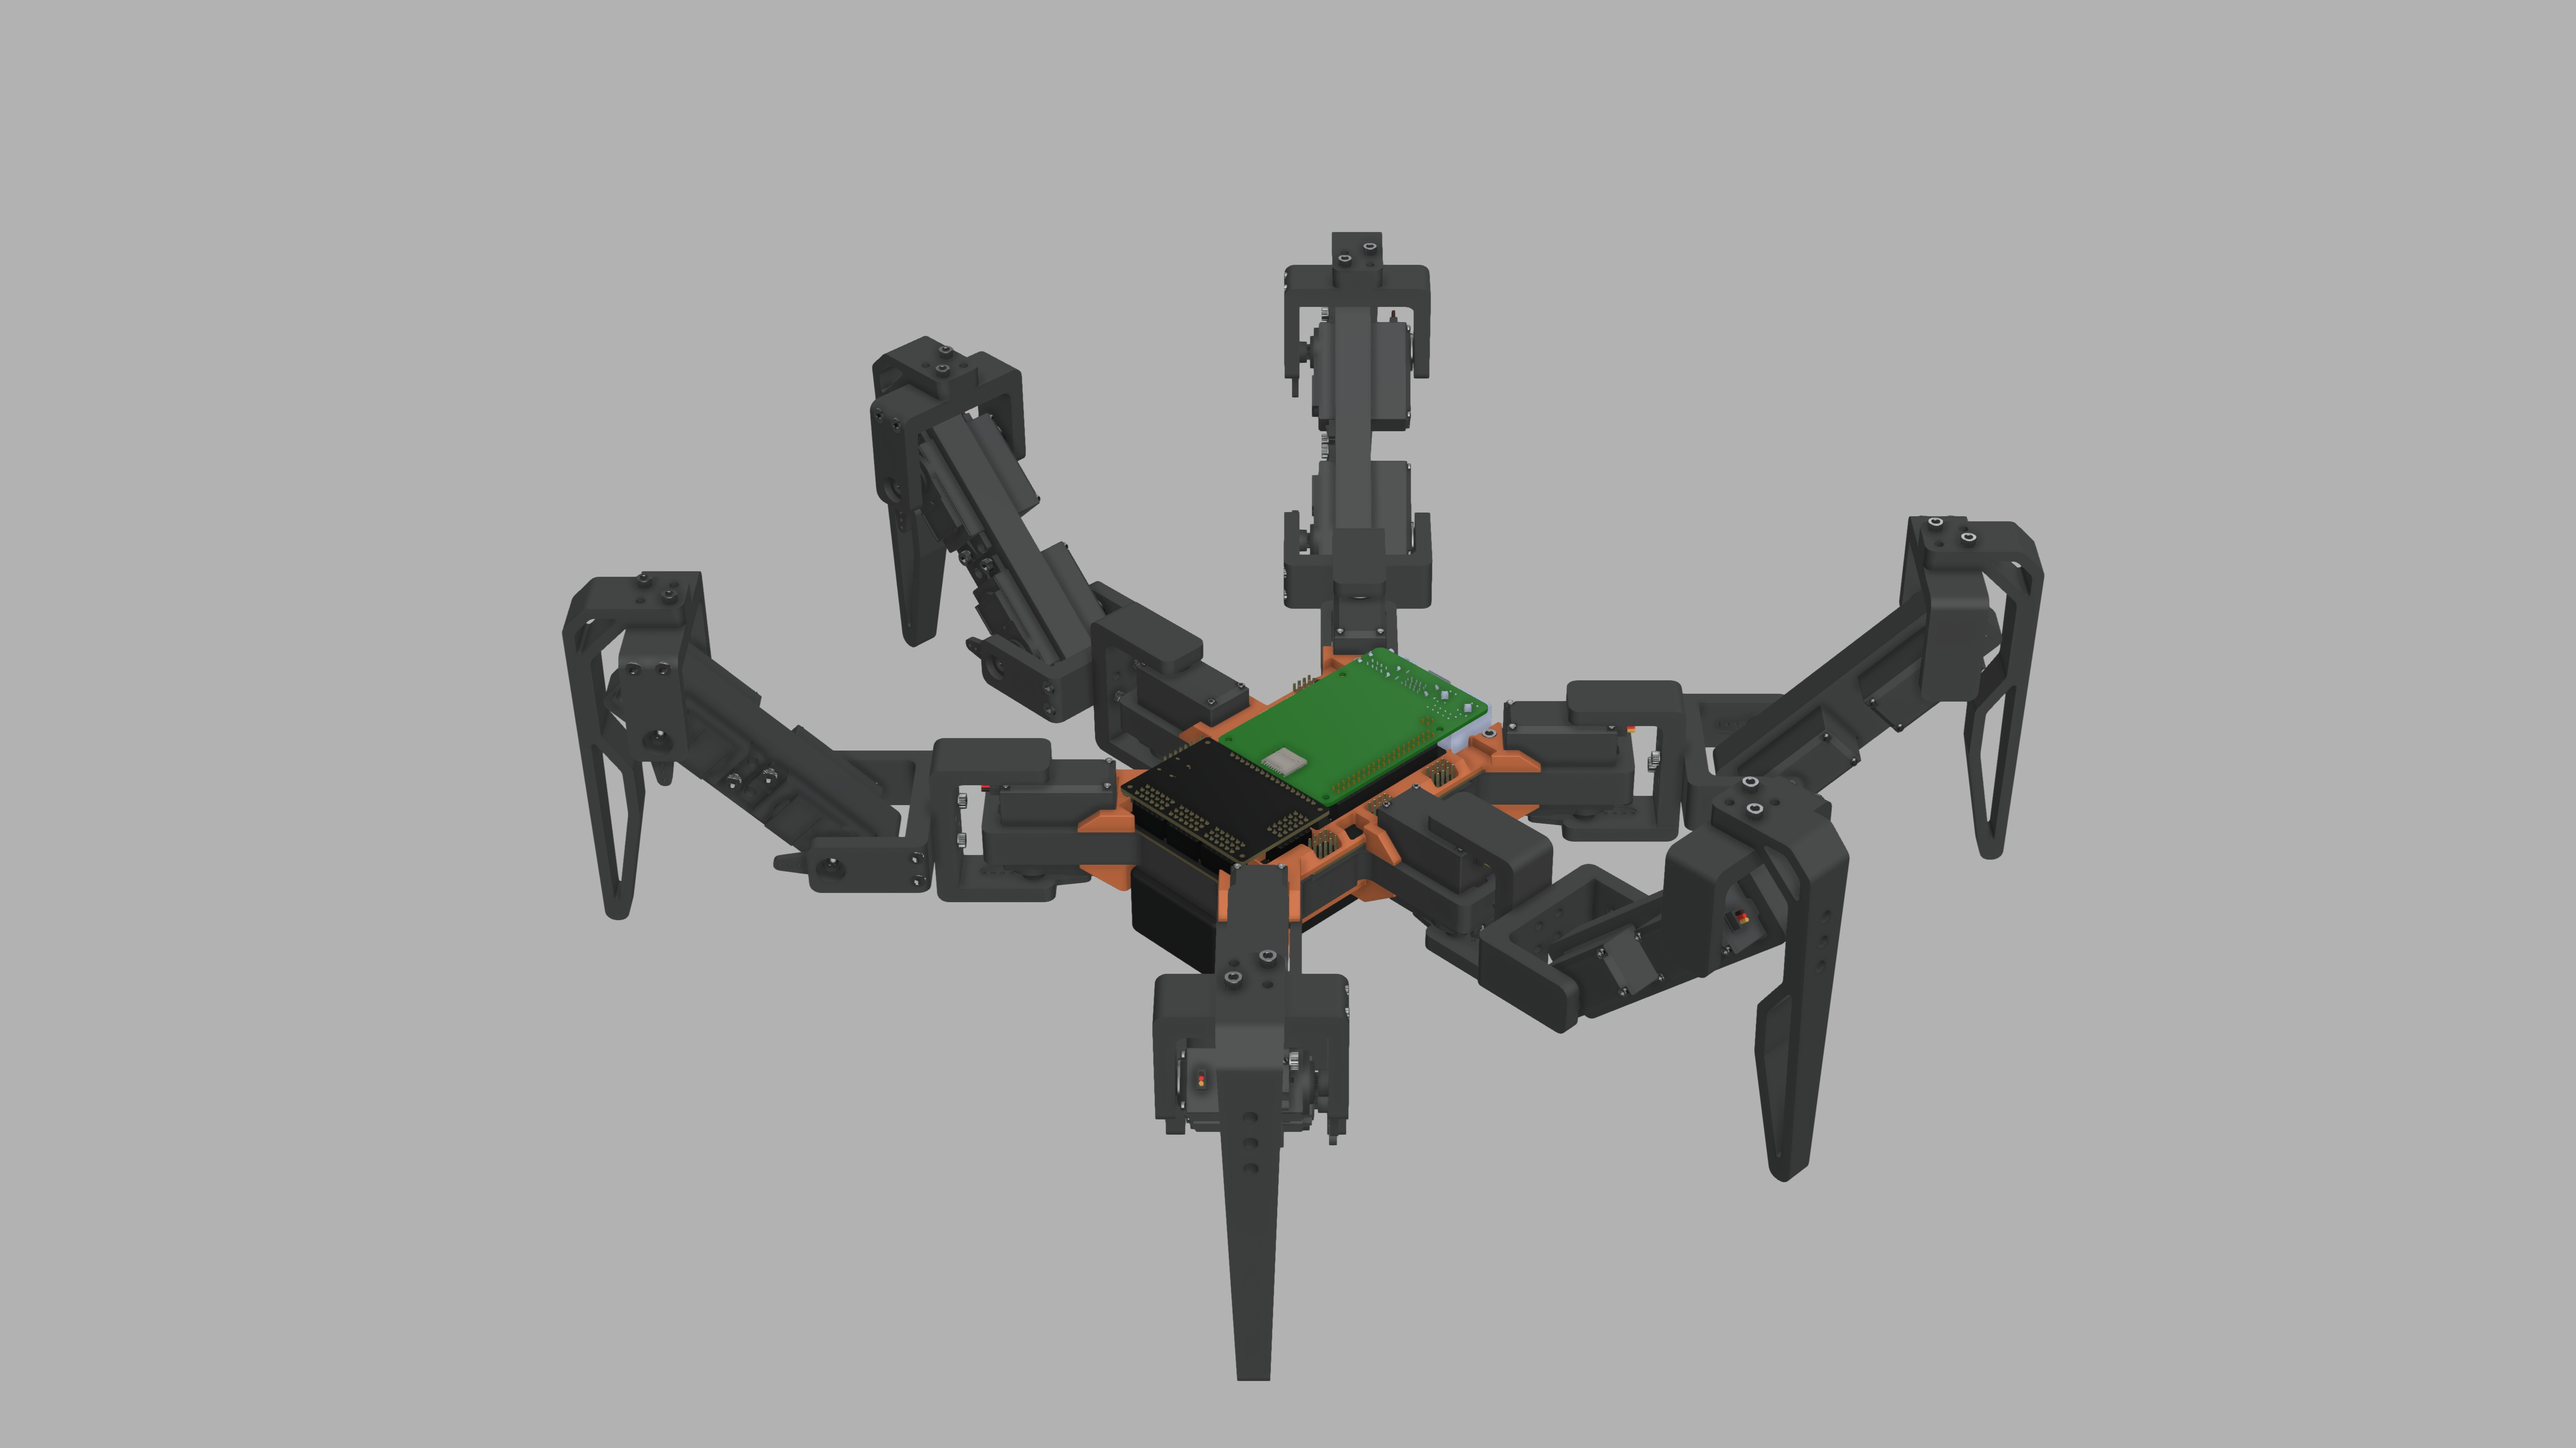
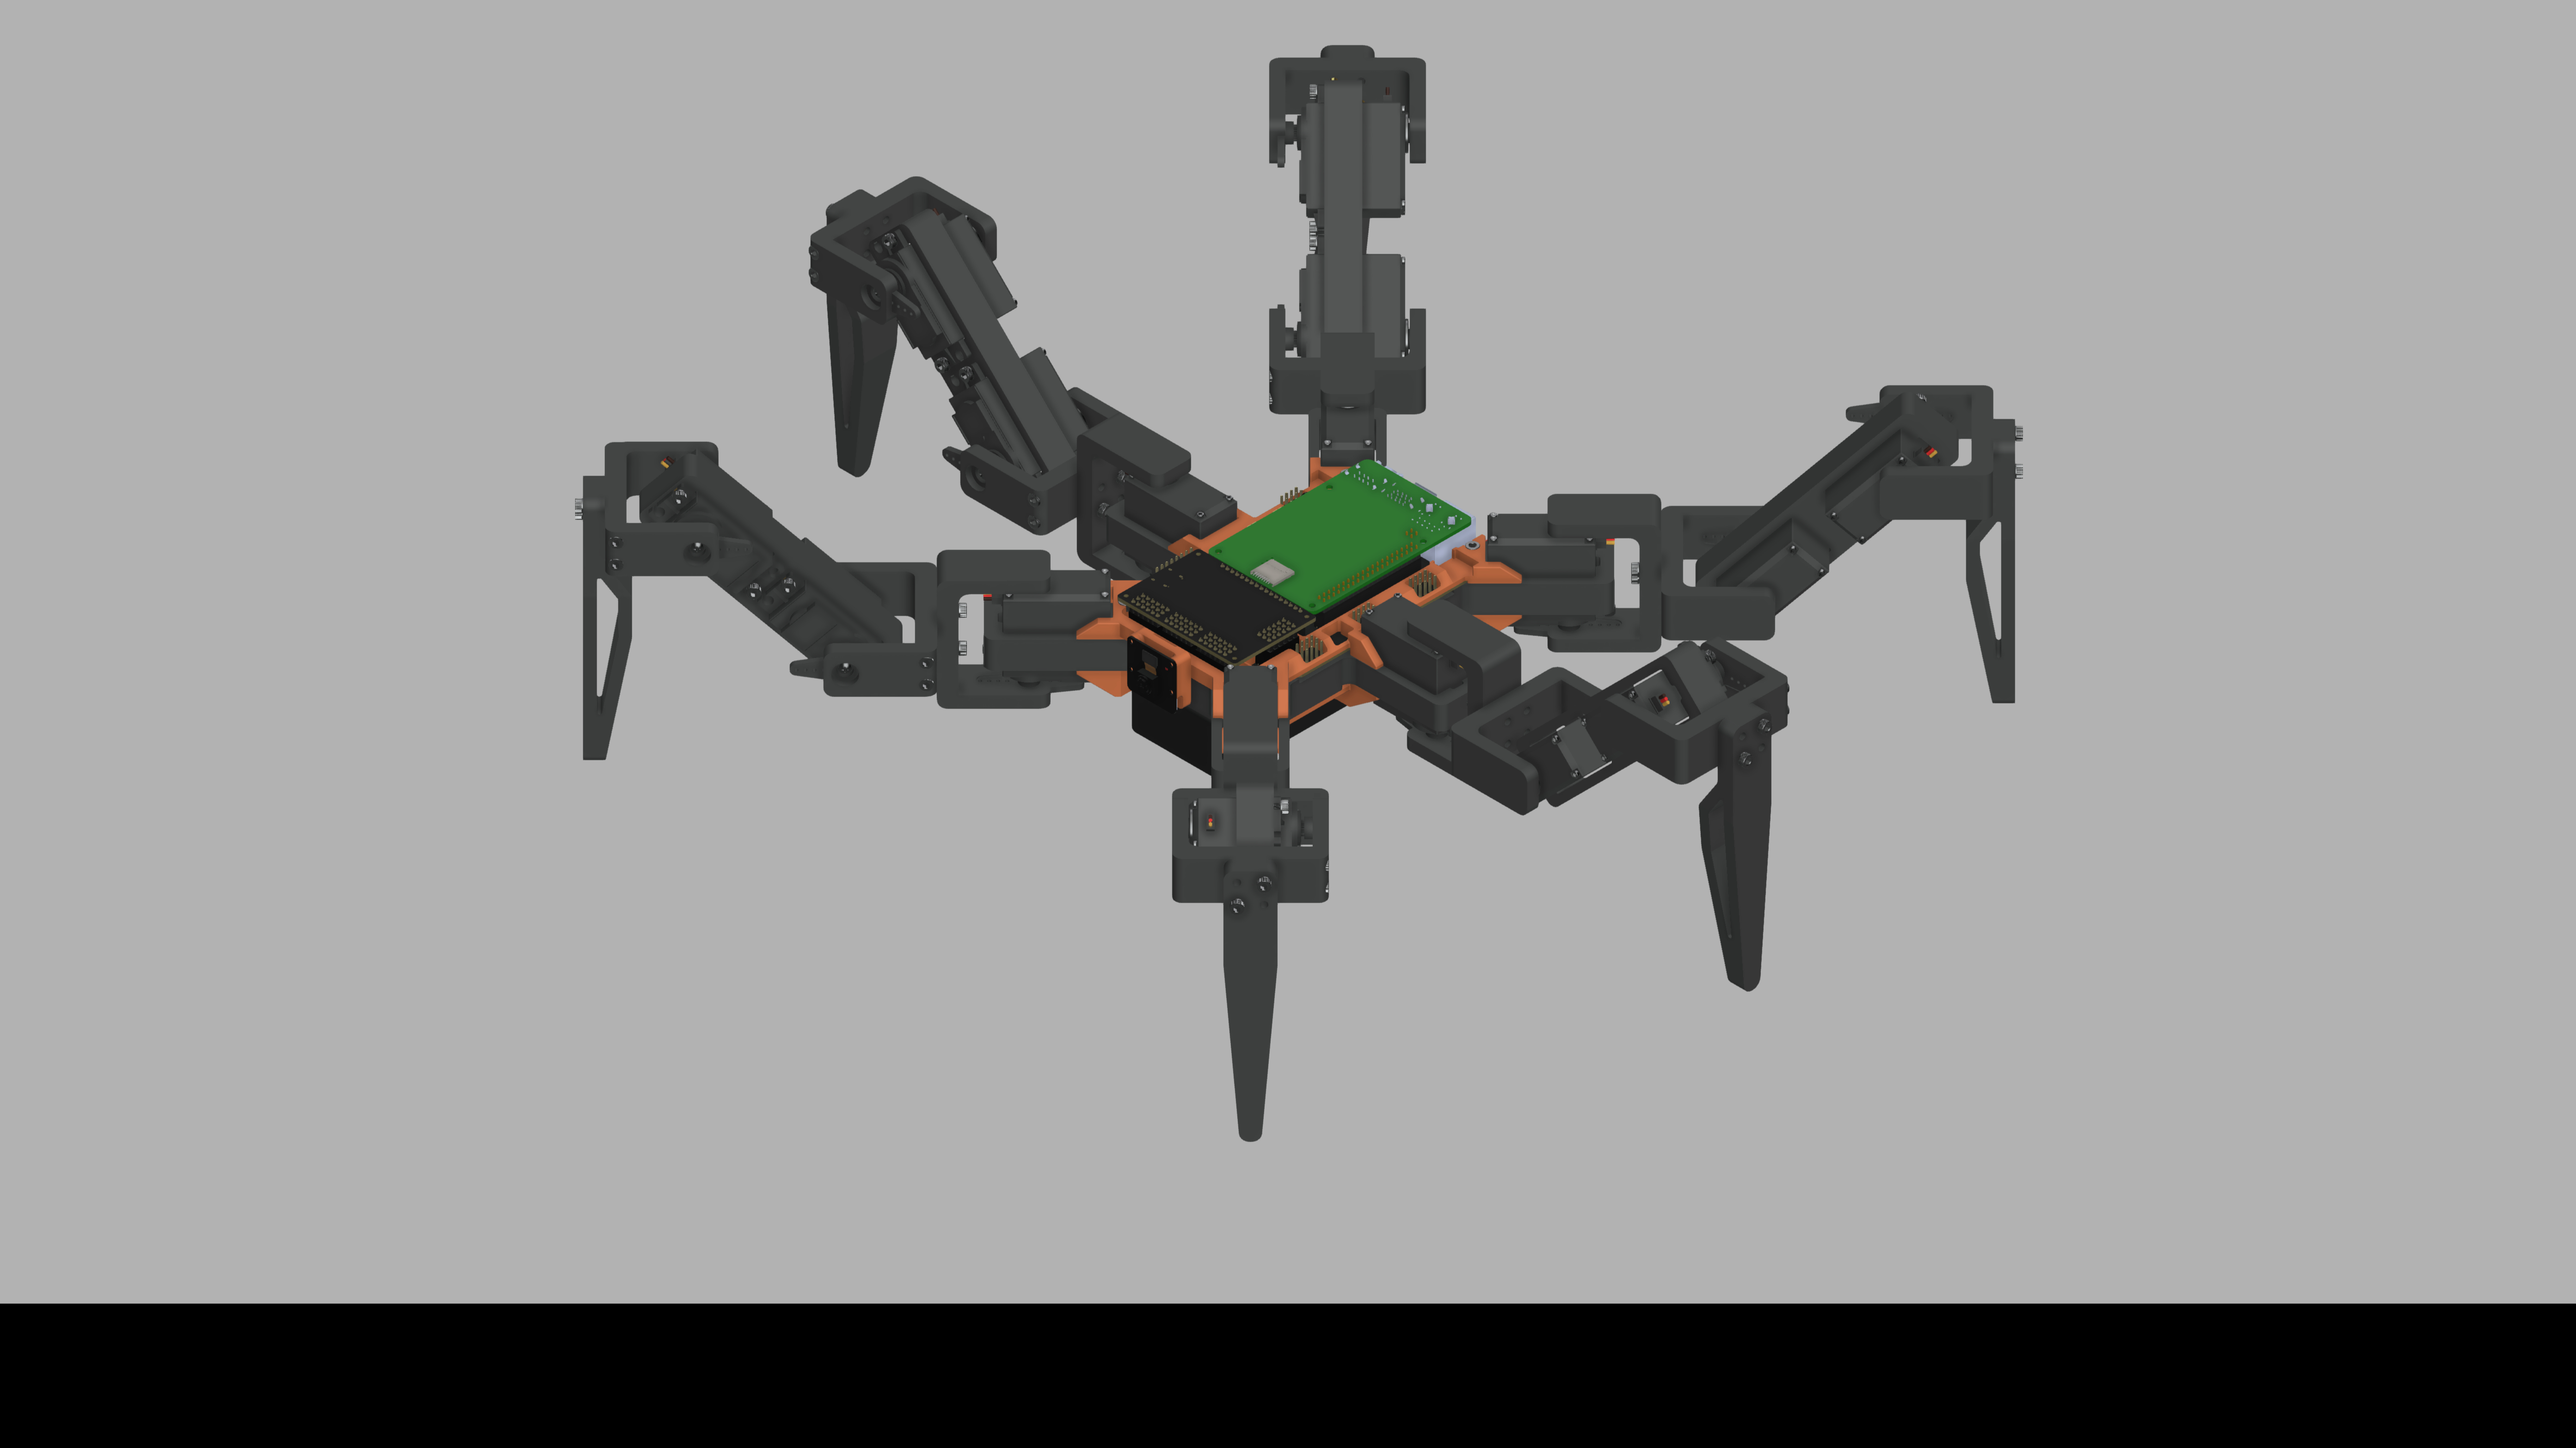
Updated images

Changed region(s): [[0.0, 0.031, 1.0, 1.0]]

diff --git a/README.md b/README.md
@@ -10,9 +10,9 @@ For a complete overview of the project, refer to the [main Hexapod repository](h
 
 ## 🖼 Render
 
-A fusion 360 render can be found [here](https://a360.co/3SQCzxe).
+A fusion 360 render can be found [here](https://a360.co/4gtNbdI).
 
-[![Fusion 360 render](media/images/render.png)](https://a360.co/3SQCzxe)
+[![Fusion 360 render](media/images/render.png)](https://a360.co/4gtNbdI)
 
 ## 📋 Bill of Materials
 
